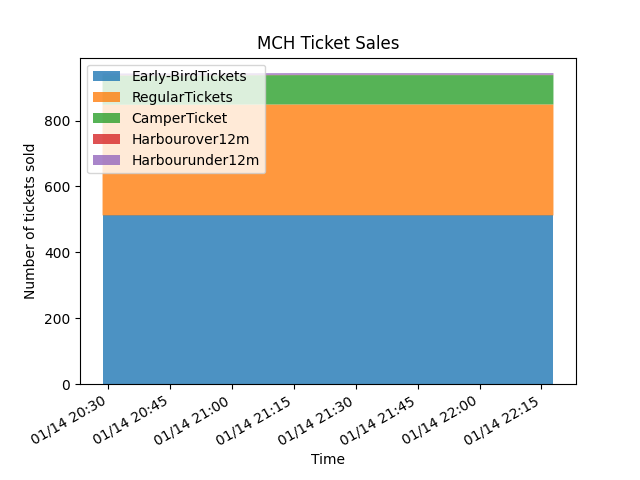
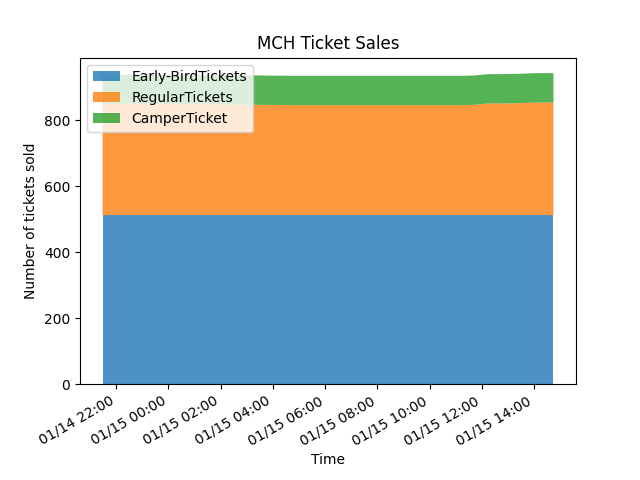
Fixed Earlybird tickets having been removed from MQTT

diff --git a/main.py b/main.py
@@ -14,6 +14,9 @@ def get_updated_counters(tickets):
     new_data = {key: [tickets[key]["sold"]] for key in tickets.keys()}
     new_data["utc_epoch_time"] = time.time()
 
+    # Earlybirds were removed from MQTT on Jan 14th, but we do want them in this graph
+    new_data["Early-BirdTickets"] = [512]
+
     # RegularTickets includes Earlybirds, so need to subtract them for an accurate graph
     if "Early-BirdTickets" in new_data and "RegularTickets" in new_data:
         new_data["RegularTickets"][0] -= new_data["Early-BirdTickets"][0]
